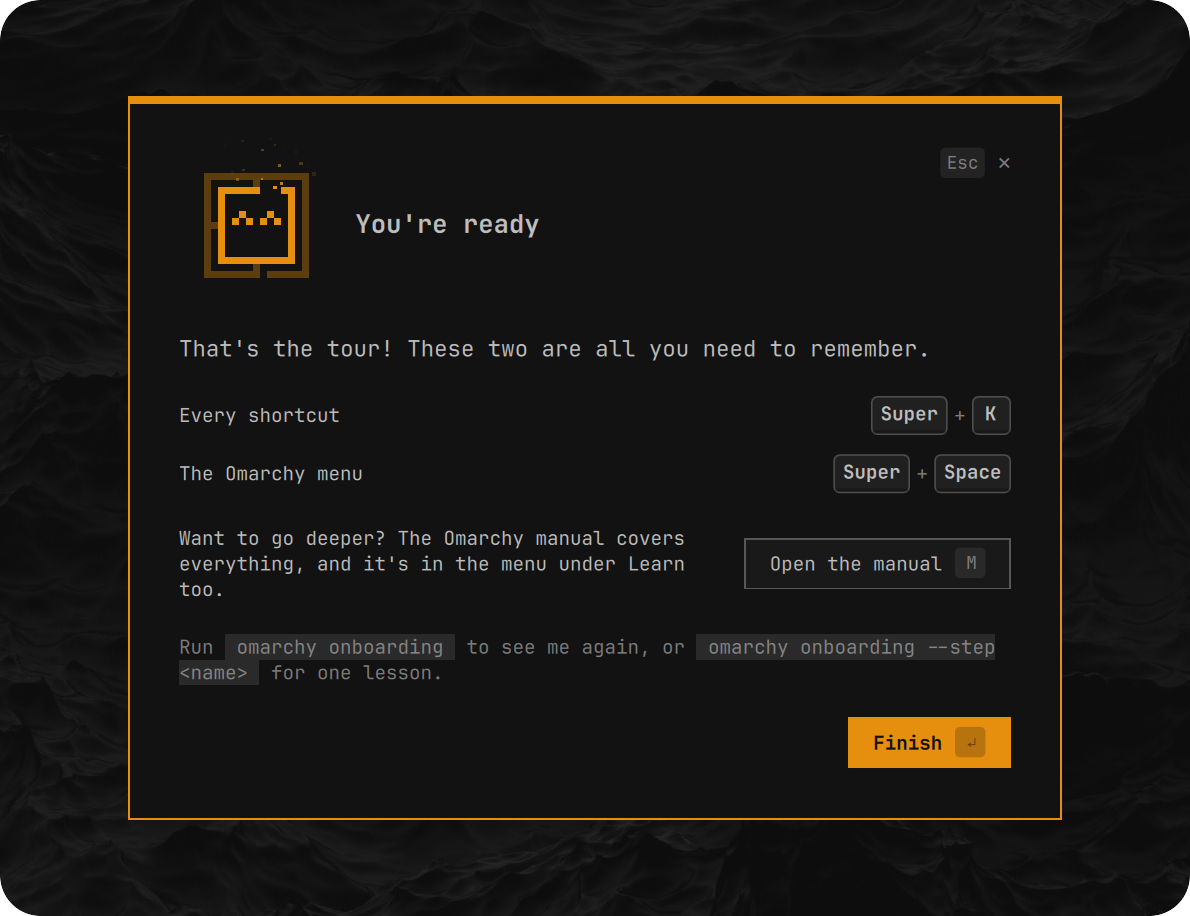
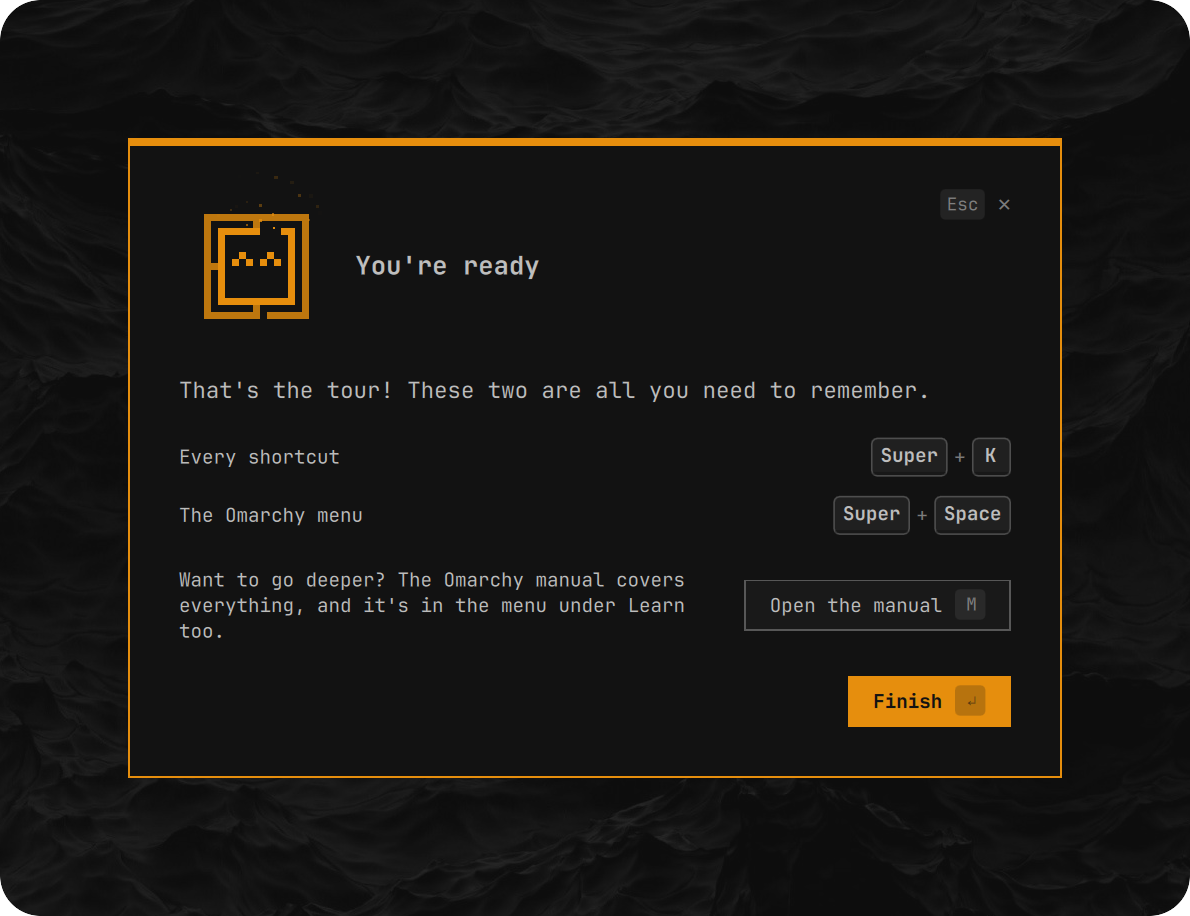
Drop the finish card's closing line about running onboarding again
The card ends on the manual and Finish. The finish step was the only one
with an outro, so the outro key, Ui.richCode and FinishView's code-chip
colour go with it. The README's finish screenshot is retaken.

diff --git a/ui/FinishView.qml b/ui/FinishView.qml
@@ -1,6 +1,5 @@
 import QtQuick
 import qs.Commons
-import "../lib/Ui.js" as Ui
 
 // The finish screen.
 FocusScope {
@@ -23,13 +22,6 @@ FocusScope {
         if (event.key === Qt.Key_M && view.step && view.step.link) { event.accepted = true; view.host.openLink(); }
         else if (event.key === Qt.Key_D && view.openSteps.length > 0) { event.accepted = true; view.host.redoOpen(); }
     }
-
-    // Commands in the card's text sit on a faint chip, so they read as
-    // something to type (Ui.richCode).
-    readonly property color codeFill: Qt.rgba(
-        Color.popups.background.r * 0.86 + Color.foreground.r * 0.14,
-        Color.popups.background.g * 0.86 + Color.foreground.g * 0.14,
-        Color.popups.background.b * 0.86 + Color.foreground.b * 0.14, 1)
 
     Column {
         id: column
@@ -135,18 +127,6 @@ FocusScope {
                 key: "D"
                 onClicked: view.host.redoOpen()
             }
-        }
-
-        // The card's last line (the finish screen's way back in).
-        Text {
-            width: parent.width
-            visible: text !== ""
-            textFormat: Text.RichText
-            text: view.step && view.step.outro ? Ui.richCode(view.step.outro, view.codeFill.toString()) : ""
-            wrapMode: Text.Wrap
-            color: Qt.rgba(Color.foreground.r, Color.foreground.g, Color.foreground.b, 0.62)
-            font.family: Style.font.family
-            font.pixelSize: Style.font.body
         }
 
         Button {

diff --git a/lib/Engine.js b/lib/Engine.js
@@ -15,7 +15,6 @@
 //   subtasks [{id, label, keys}],
 //   remember [{label, keys}]  keys to show, not tasks (the finish screen)
 //   link {text, label, url}   a page to open, as Omarchy's menu does (a web app)
-//   outro      a last line, after everything else on the card
 //   cheer      what Omi says, in place of the title, when the step is done
 //   skip_if   auto-skip when any listed fact is true
 //   show_if   auto-skip unless every listed fact is true
@@ -34,7 +33,7 @@ var STATE_VERSION = 1;
 
 var FACTS = ["online"];
 var STEP_KEYS = ["id", "number", "phase", "title", "goal", "screen", "done_when",
-                 "skip_if", "show_if", "needs", "requires", "subtasks", "remember", "link", "outro", "cheer"];
+                 "skip_if", "show_if", "needs", "requires", "subtasks", "remember", "link", "cheer"];
 var SUBTASK_KEYS = ["id", "label", "keys"];
 
 // ---------------------------------------------------------------- manifest

diff --git a/tests/run.js b/tests/run.js
@@ -626,14 +626,6 @@ test("displays read as people see them", () => {
     eq(U.monitorLine(external, 2), "DP-1 · 2560×1440 · 100%");
 });
 
-test("commands in card text become chips", () => {
-    eq(U.richCode("Run `omarchy onboarding` again", "#223344"),
-       'Run <span style="background-color:#223344;">&nbsp;omarchy onboarding&nbsp;</span> again');
-    eq(U.richCode("`--step <name>` & more", "#000"),
-       '<span style="background-color:#000;">&nbsp;--step &lt;name&gt;&nbsp;</span> &amp; more', "escaped first");
-    eq(U.richCode("", "#000"), "");
-});
-
 test("welcome Omi follows the checklist", () => {
     eq(U.welcomeOmi({ online: false }), "idle", "offline is plain idle");
     eq(U.welcomeOmi({ online: false, update: "current" }), "idle");

diff --git a/lib/Ui.js b/lib/Ui.js
@@ -243,15 +243,6 @@ function monitorLine(m, count) {
     return (builtIn ? "Built-in display" : m.name) + " · " + m.width + "×" + m.height + " · " + scale;
 }
 
-// Text with `code` spans as Qt rich text, each span on a `bg` background
-// (a "#rrggbb" color), so a command reads as something to type.
-function richCode(text, bg) {
-    var safe = String(text || "").replace(/&/g, "&amp;").replace(/</g, "&lt;").replace(/>/g, "&gt;");
-    return safe.replace(/`([^`]+)`/g, function (m, code) {
-        return "<span style=\"background-color:" + bg + ";\">&nbsp;" + code + "&nbsp;</span>";
-    });
-}
-
 function hypr(expr) {
     return ["hyprctl", "dispatch", expr];
 }
